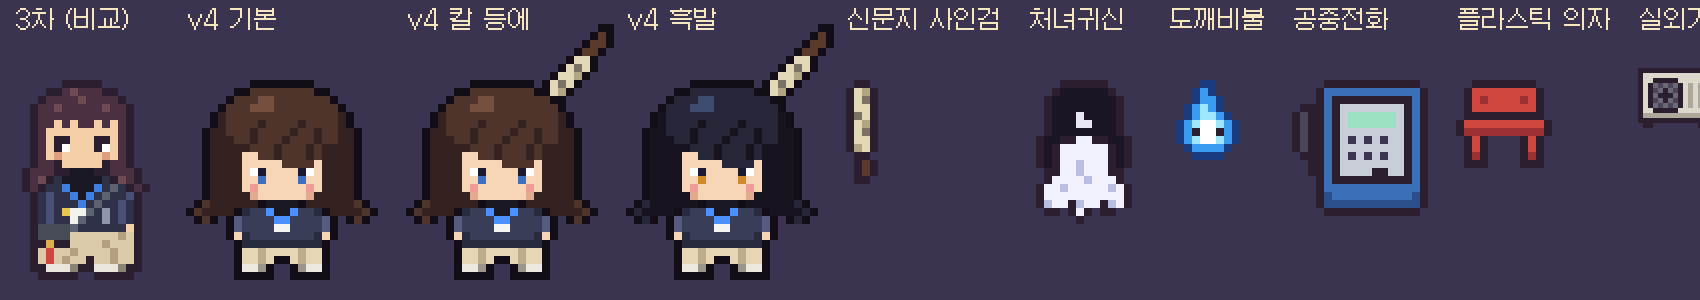
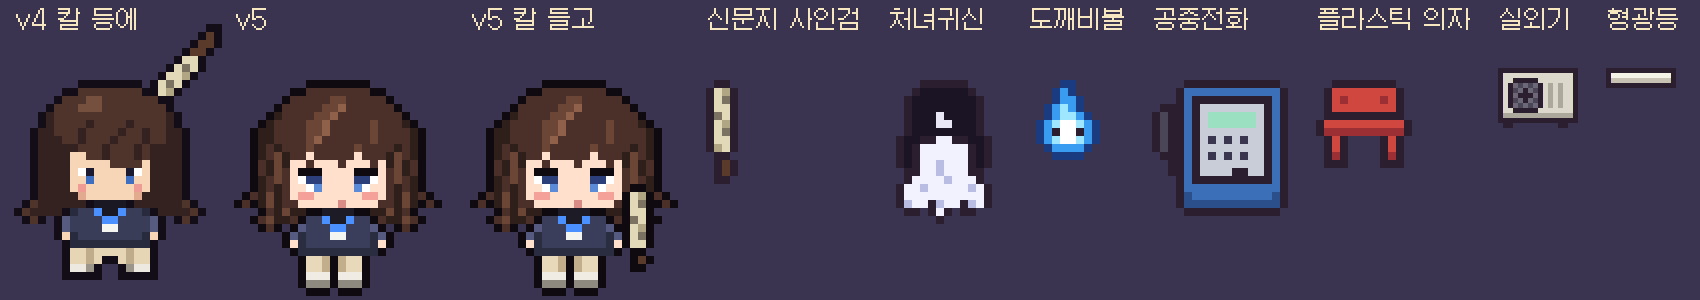
Art lab v5: director legs, eyes and layered hair from Soul Knight reference
Claude-Session: https://claude.ai/code/session_014BYZNRo4yeD9gUjFc8b4p2

diff --git a/tools/artlab/lab.html b/tools/artlab/lab.html
@@ -16,7 +16,8 @@
 <script type="module">
 import { PAL, SPRITES as BASE, TILE } from './sprites.js';
 import { V4_SPRITES } from './v4.js';
-const SPRITES = { ...BASE, ...V4_SPRITES };
+import { V5_SPRITES } from './v5.js';
+const SPRITES = { ...BASE, ...V4_SPRITES, ...V5_SPRITES };
 
 const W = 192, H = 112;
 const SCALE = Number(new URLSearchParams(location.search).get('scale') || 5);
@@ -27,7 +28,11 @@ const hex = (h) => [parseInt(h.slice(1, 3), 16), parseInt(h.slice(3, 5), 16), pa
 function blit(ctx, name, x, y, flip = false) {
   const spr = SPRITES[name];
   if (!Array.isArray(spr)) for (const [u, dx, dy] of spr.under ?? []) blit(ctx, u, x + dx, y + dy);
-  if (!Array.isArray(spr) && spr.base) return blit(ctx, spr.base, x, y, flip);
+  if (!Array.isArray(spr) && spr.base) {
+    blit(ctx, spr.base, x, y, flip);
+    for (const [o, dx, dy] of spr.over ?? []) blit(ctx, o, x + dx, y + dy);
+    return;
+  }
   const rows = Array.isArray(spr) ? spr : spr.rows;
   const pal = Array.isArray(spr) ? PAL : spr.pal;
   rows.forEach((row, j) => [...row].forEach((ch, i) => {
@@ -152,7 +157,7 @@ function scene() {
   blit(ctx, 'chair', 56, 66);
   const actors = [
     { name: 'cheonyeo', x: 134, y: 50, sh: 78, float: true },
-    { name: WHO, x: 78, y: 56, sh: 79 },
+    { name: WHO, x: 76, y: 52, sh: 79 },
     { name: 'wisp', x: 36, y: 84, sh: 96, float: true },
     { name: 'wisp', x: 156, y: 88, sh: 100, float: true },
     { name: 'wisp', x: 172, y: 66, sh: 78, float: true },
@@ -187,8 +192,8 @@ function scene() {
 
 function sheet() {
   const S = 8, pad = 14;
-  const list = ['directorW', 'v4a', 'v4b', 'v4c', 'sword', 'cheonyeo', 'wisp', 'payphone', 'chair', 'aircon', 'lamp'];
-  const labels = { v4a: 'v4 기본', v4b: 'v4 칼 등에', v4c: 'v4 흑발', directorW: '3차 (비교)', director: '이전 소장', directorM: '철릭 소장 (남)', directorF: '철릭 소장 (여)', sword: '신문지 사인검', cheonyeo: '처녀귀신', wisp: '도깨비불', payphone: '공중전화', chair: '플라스틱 의자', aircon: '실외기', lamp: '형광등' };
+  const list = ['v4b', 'v5', 'v5s', 'sword', 'cheonyeo', 'wisp', 'payphone', 'chair', 'aircon', 'lamp'];
+  const labels = { v5: 'v5', v5s: 'v5 칼 들고', v4a: 'v4 기본', v4b: 'v4 칼 등에', v4c: 'v4 흑발', directorW: '3차 (비교)', director: '이전 소장', directorM: '철릭 소장 (남)', directorF: '철릭 소장 (여)', sword: '신문지 사인검', cheonyeo: '처녀귀신', wisp: '도깨비불', payphone: '공중전화', chair: '플라스틱 의자', aircon: '실외기', lamp: '형광등' };
   const out = document.getElementById('sheet');
   out.width = 1700; out.height = 300;
   const o = out.getContext('2d');

diff --git a/tools/artlab/v5.js b/tools/artlab/v5.js
@@ -1,0 +1,61 @@
+// Director v5 (2026-10-25): from reference 4 (Soul Knight) measured at native pixels:
+// slim short legs (3px each, 1px gap, 3px shoes), thick 3px upper lash over a 3x2 eye with
+// white on the outer side, layered hair with diagonal highlight strands and side locks,
+// no shading under the face (it read as a beard), sword held in hand.
+const PAL5 = {
+  O: '#0e0a10', H: '#2e1f1b', h: '#4a3029', i: '#6b4535', l: '#8f604a',
+  S: '#ffe0cc', p: '#f4a19a', m: '#d98c86', E: '#2d3f7a', e: '#5b8ad6', w: '#ffffff',
+  T: '#1d1b26', J: '#3b3e5a', j: '#2a2c40', k: '#565a80', 1: '#4a90ff', 2: '#f4f4f0',
+  8: '#e8d9ba', 9: '#c2ae8b', a: '#f0ece4', g: '#8f8a80',
+  N: '#e2d9b8', n: '#b0a684', x: '#7b7262', A: '#5a3a2a',
+};
+
+const V5 = [
+  '.........OOOOOOOO.........',
+  '.......OOhhhhhhhhOO.......',
+  '......OhhhhhiihhhhhO......',
+  '.....OhhhhhiilhhhhhhO.....',
+  '....OHhhhhiilhhhhhhhhO....',
+  '...OHhhhhiilhhhhhihhhHO...',
+  '..OHHhhhhiilhhhhhihhhhHO..',
+  '..OHHhhhhilhhhhhhihhhhHO..',
+  '..OHhHhhhihhhhhihhhhHhHO..',
+  '..OHhiHhhShhhhhShhhHihHO..',
+  '..OhHiHSShSSShSSShSHiHhO..',
+  '..OhHihSOOOSSSSOOOShiHhO..',
+  '..OHhihSwEESSSSEEwShihHO..',
+  '..OHhHhSSweSSSSewSShHhHO..',
+  '.OhHiHhSppSSSSSSppShHiHhO.',
+  'OhOHiHhhSSSSSmSSSShhHiHOhO',
+  '...OhHiHHOOTTTTOOHHiHhO...',
+  '..OhiHHhOJJ1TT1JJOhHHihO..',
+  '...OhO.OkJJJ11JJJkO.OhO...',
+  '......OkjJJJ22JJJjkO......',
+  '......OSjJJJJJJJJjSO......',
+  '.......OjjjjjjjjjjO.......',
+  '........O889O988O.........',
+  '........O889O988O.........',
+  '........OaaaOaaaO.........',
+  '........OgggOgggO.........',
+  '.........OOO.OOO..........',
+];
+
+const SWORD_HAND = [
+  '.OO.',
+  'ONnO',
+  'ONxO',
+  'ONNO',
+  'OxNO',
+  'ONnO',
+  'ONxO',
+  'ONNO',
+  '.OO.',
+  '.OAO',
+  '.OO.',
+];
+
+export const V5_SPRITES = {
+  v5: { pal: PAL5, rows: V5 },
+  swordHand: { pal: PAL5, rows: SWORD_HAND },
+  v5s: { base: 'v5', over: [['swordHand', 19, 13]] },
+};

diff --git a/HANDOFF.md b/HANDOFF.md
@@ -46,7 +46,7 @@ Old code: action prototype `d170e4b`, turn-based `0278d77`.
 ### Round 5 (2026-10-25): art direction sample
 - User wants chunky pixel art like Soul Knight / Rusty's Retirement (not dense LimeZu/Pokémon-style), worried about editing packs and conveying Seoul.
 - Built `tools/artlab/` (outside the game build): sprites as letter grids in `sprites.js`, `lab.html` renders a lit printing-house basement scene + a sprite sheet, `render.cjs` screenshots it. Galmuri pixel font (OFL) in `tools/artlab/fonts/`. Output in `docs/design/5-business/img/`, notes in `art.md`.
-- v1 feedback: pixel size and lighting OK. v2: director redesigned in a cheollik-style coat, male and female variants (`directorM`, `directorF`), 24px tall. v3: user's own spec — the director is an office worker by day, exorcism office director by night (투잡); sprite `directorW` (bob haircut, ink jacket, ID badge with talisman, crossbag with norigae, beige wide slacks). Docs: protagonist.md (외형), world.md, hub.md (evening hub), module map one-liner, GUIDE. v3 rejected (poor readability). v4 in `tools/artlab/v4.js`: redrawn from rules measured off Soul Knight sprites (dark outline, head ~60%, small face, 2×2 eyes, one accent), variants v4a/v4b (sword on back)/v4c (black hair); lab sprites can now carry their own palette and composites. Next: user picks/tweaks v4, then walk/swing frames and port into `src/scenes/rift/draw/`.
+- v1 feedback: pixel size and lighting OK. v2: director redesigned in a cheollik-style coat, male and female variants (`directorM`, `directorF`), 24px tall. v3: user's own spec — the director is an office worker by day, exorcism office director by night (투잡); sprite `directorW` (bob haircut, ink jacket, ID badge with talisman, crossbag with norigae, beige wide slacks). Docs: protagonist.md (외형), world.md, hub.md (evening hub), module map one-liner, GUIDE. v3 rejected (poor readability). v4 in `tools/artlab/v4.js`: redrawn from rules measured off Soul Knight sprites (dark outline, head ~60%, small face, 2×2 eyes, one accent), variants v4a/v4b (sword on back)/v4c (black hair); lab sprites can now carry their own palette and composites. v4 feedback: ugly legs/eyes, hair not layered, chin shadow read as a beard, why a back sword. v5 in `tools/artlab/v5.js` from reference 4 measured at native pixels (slim legs, thick upper lash eyes, layered strands, no chin shade, sword in hand). Next: user feedback on v5, then walk/swing frames and port into `src/scenes/rift/draw/`.
 
 ## Verified
 - Round 4: `npm run check` 45 tests pass. Playwright: new game writes a v1 save on 출동; a hand-written v1 save (money 777, solved 4) shows in the office after reload; keyboard run after the view split renders as before, no page errors.
